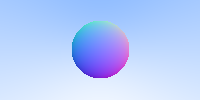
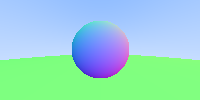
Implemented image creation with IntersectableList

diff --git a/src/RayTracer.cpp b/src/RayTracer.cpp
@@ -4,42 +4,29 @@
 
 #include "Vec3f.h"
 #include "ray.h"
+#include "Sphere.h"
+#include "IntersectableList.h"
 #include "PNG.h"
+#include "float.h"
 
 // Solve:
 // t * t * dot( B, B ) + 2 * t * dot( B, A - C ) + dot( A-C, A-C ) - R * R = 0
-float intersect_sphere(const vec3& center, float radius, const ray& r) 
-{
-	vec3 origToCenter = r.origin() - center;	
-	float a = r.direction().dot(r.direction());
-	float b = 2.f * origToCenter.dot(r.direction());
-	float c = origToCenter.dot(origToCenter) - radius*radius;
-	float discriminant = b * b - 4 * a * c;
-	
-	if (discriminant < 0) 
-	{
-		return -1.f;
-	}
-	else 
-	{
-		return (-b - sqrt(discriminant)) / (2.f * a);
-	}
-}
 
-vec3 color(const ray& r)
+vec3 color(const ray& r, IntersectableList& world)
 {
-	float t = intersect_sphere(vec3(0.f, 0.f, -1.f), 0.5f, r);
-	if (t > 0.f)
+	Intersection record;
+	if (world.intersect(r, 0.f, std::numeric_limits<float>::max(), record))
 	{
-		vec3 normal = (r.pointAtParam(t) - vec3(0.f, 0.f ,-1.f)).unitVector();
-		return 0.5f * vec3(normal.x() + 1, normal.y() + 1, normal.z() + 1);
-	};
-	
-	vec3 unitDir = r.direction().unitVector();
-	// Rescale unitDir.y from -1 - 1 to 0 - 1
-	t = 0.5f * (unitDir.y() + 1.f);
-	// Lerp white - blue.
-	return (1.f - t) * vec3(1.f, 1.f, 1.f) + t * vec3(0.5f, 0.7f, 1.f);
+		return 0.5f * vec3(record.normal.x() + 1, record.normal.y() + 1, record.normal.z() + 1);
+	}
+	else
+	{
+		vec3 unitDir = r.direction().unitVector();
+		// Rescale unitDir.y from -1 - 1 to 0 - 1
+		float t = 0.5f * (unitDir.y() + 1.f);
+		// Lerp white - blue.
+		return (1.f - t) * vec3(1.f, 1.f, 1.f) + t * vec3(0.5f, 0.7f, 1.f);
+	}
 }
 
 int main()
@@ -54,6 +41,10 @@ int main()
 	vec3 horizontal(4.f, 0.f, 0.f);
 	vec3 vertical(0.f, 2.f, 0.f);
 	
+	IntersectableList world;
+	world.Add(new Sphere(vec3(0.f, 0.f, -1.f), 0.5f));
+	world.Add(new Sphere(vec3(0.f, -100.5f, -1.f), 100.f));
+
 	// Raymarch through all pixels.
 	for (int j = img.y - 1; j >= 0; j--)
 	{
@@ -63,7 +54,7 @@ int main()
 			float v = float(j) / img.y;
 
 			ray r(origin, lowerLeftCorner + u * horizontal + v * vertical);
-			vec3 col = color(r);
+			vec3 col = color(r, world);
 
 			img.setPixel(i, img.y - 1 - j, 255.99f * col.x(), 255.99f * col.y(), 255.99f * col.z());
 		}

diff --git a/src/IntersectableList.h b/src/IntersectableList.h
@@ -1,0 +1,41 @@
+#ifndef INTERSECTABLE_LIST_H
+#define INTERSECTABLE_LIST_H
+
+#include <vector>
+
+#include "Intersectable.h"
+
+class IntersectableList : public Intersectable
+{
+public:
+	
+	virtual bool intersect(const ray& r, float tMin, float tMax, Intersection& intersectOut) override;
+	void Add(Intersectable* pObject);
+
+private:
+	std::vector<Intersectable*> m_intersectables;
+};
+
+
+bool IntersectableList::intersect(const ray& r, float tMin, float tMax, Intersection& intersectOut)
+{
+	bool intersected = false;
+	double closestSoFar = tMax;
+
+	for (auto& intersectable : m_intersectables)
+	{
+		if (intersectable->intersect(r, tMin, closestSoFar, intersectOut))
+		{
+			intersected = true;
+			closestSoFar = intersectOut.t;	
+		}
+	}
+	return intersected;
+}
+
+void IntersectableList::Add(Intersectable* pObject)
+{
+	m_intersectables.push_back(pObject);
+}
+
+#endif // INTERSECTABLE_LIST_H

diff --git a/src/Sphere.h b/src/Sphere.h
@@ -18,7 +18,25 @@ private:
 
 bool Sphere::intersect(const ray& r, float tMin, float tMax, Intersection& intersectOut)
 {
-	return true;
+	vec3 origToCenter = r.origin() - m_center;
+
+	float a = r.direction().dot(r.direction());
+	float b = origToCenter.dot(r.direction());
+	float c = origToCenter.dot(origToCenter) - m_radius * m_radius;
+	float discrimnant = b*b - a*c;
+
+	if (discrimnant > 0)
+	{
+		float t = (-b - sqrt(discrimnant)) / a;
+		if (t < tMax && t > tMin)
+		{
+			intersectOut.t = t;
+			intersectOut.p = r.pointAtParam(intersectOut.t);
+			intersectOut.normal = (intersectOut.p - m_center) / m_radius;
+			return true;
+		}
+	}
+	return false;
 }
 
 #endif // SPHERE_H

diff --git a/src/Intersectable.h b/src/Intersectable.h
@@ -10,9 +10,10 @@ struct Intersection
 	vec3 normal;
 };
 
-class Intersectable
+class Intersectable 
 {
 public:
+	virtual ~Intersectable() = default;
 	virtual bool intersect(const ray& r, float tMin, float tMax, Intersection& intersectOut) = 0;
 };
 
